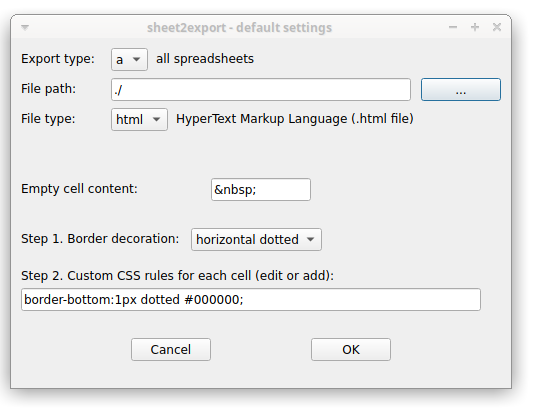
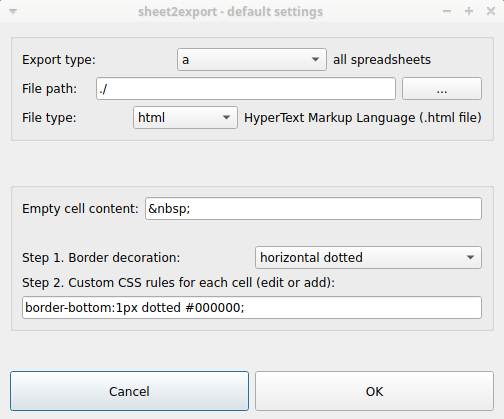
new layout for FreeCAD Dark & Light Theme

Changed region(s): [[0.0, 0.0, 0.9821, 0.9927], [0.2679, 0.0, 0.6548, 0.0876], [0.506, 0.8759, 0.5357, 0.9051]]

diff --git a/sheet2export.py b/sheet2export.py
@@ -144,122 +144,84 @@ def showQtMain():
 			# ############################################################################
 			
 			# tool screen size
-			toolSW = 500
-			toolSH = 350
+			toolSW = 400
+			toolSH = 400
 			
-			# active screen size - FreeCAD main window
-			gSW = FreeCADGui.getMainWindow().width()
-			gSH = FreeCADGui.getMainWindow().height()
-
-			# tool screen position
-			gPW = int( ( gSW - toolSW ) / 2 )
-			gPH = int( ( gSH - toolSH ) / 2 )
-
 			# ############################################################################
 			# main window
 			# ############################################################################
 			
 			self.result = userCancelled
-			self.setGeometry(gPW, gPH, toolSW, toolSH)
 			self.setWindowTitle(translate('sheet2export', 'sheet2export - default settings'))
 			self.setWindowFlags(QtCore.Qt.WindowStaysOnTopHint)
+			self.setMinimumWidth(toolSW)
+			self.setMinimumHeight(toolSH)
 
 			# ############################################################################
 			# export type
 			# ############################################################################
 
-			# label
 			self.eTypeL = QtGui.QLabel(translate('sheet2export', 'Export type:'), self)
-			self.eTypeL.move(10, 13)
 			
-			# options
 			self.eTypeList = ("a", "s")
 			self.eTypeO = QtGui.QComboBox(self)
 			self.eTypeO.addItems(self.eTypeList)
 			self.eTypeO.setCurrentIndex(self.eTypeList.index("a"))
 			self.eTypeO.textActivated[str].connect(self.setEType)
-			self.eTypeO.move(100, 10)
 			
-			# info screen
-			self.eTypeIS = QtGui.QLabel(translate('sheet2export', 'all spreadsheets')+'                  ', self)
-			self.eTypeIS.move(145, 13)
-
+			self.eTypeIS = QtGui.QLabel(translate('sheet2export', 'all spreadsheets'), self)
+			
 			# ############################################################################
 			# file path
 			# ############################################################################
 
-			# label
 			self.fPathL = QtGui.QLabel(translate('sheet2export', 'File path:'), self)
-			self.fPathL.move(10, 43)
-
-			# text input
+			
 			self.fPathTi = QtGui.QLineEdit(self)
 			self.fPathTi.setText(str(sFilePath))
 			self.fPathTi.setFixedWidth(300)
-			self.fPathTi.move(100, 40)
-
-			# button
+			
 			self.fPathB = QtGui.QPushButton("...", self)
 			self.fPathB.clicked.connect(self.loadCustomDir)
-			self.fPathB.move(410, 40)
-
+			
 			# ############################################################################
 			# file type
 			# ############################################################################
 			
-			# label
 			self.fileTypeL = QtGui.QLabel(translate('sheet2export', 'File type:'), self)
-			self.fileTypeL.move(10, 73)
 			
-			# options
 			self.fileTypeOlist = ("csv","html","json","md")
 			self.fileTypeO = QtGui.QComboBox(self)
 			self.fileTypeO.addItems(self.fileTypeOlist)
 			self.fileTypeO.setCurrentIndex(self.fileTypeOlist.index("html"))
 			self.fileTypeO.textActivated[str].connect(self.setFileType)
-			self.fileTypeO.move(100, 70)
-
-			# info screen
-			self.fileTypeOIS = QtGui.QLabel(translate('sheet2export', 'HyperText Markup Language (.html file)')+'          ', self)
-			self.fileTypeOIS.move(165, 73)
-
+			
+			self.fileTypeOIS = QtGui.QLabel(translate('sheet2export', 'HyperText Markup Language (.html file)'), self)
+			
 			# ############################################################################
 			# empty cell
 			# ############################################################################
 
-			# label
 			self.emptyCellL = QtGui.QLabel(translate('sheet2export', 'Empty cell content:'), self)
-			self.emptyCellL.move(10, 143)
-
-			# text input
+			
 			self.emptyCellTi = QtGui.QLineEdit(self)
 			self.emptyCellTi.setText(str(sEmptyCell))
-			self.emptyCellTi.setFixedWidth(100)
-			self.emptyCellTi.move(200, 140)
-
+			
 			# ############################################################################
 			# CSV separator
 			# ############################################################################
 			
-			# label
 			self.csvSL = QtGui.QLabel(translate('sheet2export', 'Set CSV separator:'), self)
-			self.csvSL.move(10, 183)
-			self.csvSL.hide()
-
-			# text input
+			
 			self.csvSTi = QtGui.QLineEdit(self)
 			self.csvSTi.setText(str(sSepCSV))
-			self.csvSTi.setFixedWidth(100)
-			self.csvSTi.move(140, 180)
-			self.csvSTi.hide()
-
+			
 			# ############################################################################
 			# custom CSS rules
 			# ############################################################################
 
 			# border label
 			self.customCSSbl = QtGui.QLabel(translate('sheet2export', 'Step 1. Border decoration:'), self)
-			self.customCSSbl.move(10, 193)
 
 			# border options
 			self.customCSSbol = ("no border","horizontal dotted","vertical solid",
@@ -268,32 +230,91 @@ def showQtMain():
 			self.customCSSbo.addItems(self.customCSSbol)
 			self.customCSSbo.setCurrentIndex(self.customCSSbol.index("horizontal dotted"))
 			self.customCSSbo.textActivated[str].connect(self.setCustomCSSbo)
-			self.customCSSbo.move(180, 190)
 
 			# text input label
 			self.customCSStil = QtGui.QLabel(translate('sheet2export', 'Step 2. Custom CSS rules for each cell (edit or add):'), self)
-			self.customCSStil.move(10, 230)
 
 			# text input
 			self.customCSSti = QtGui.QLineEdit(self)
 			self.customCSSti.setText(str(sCustomCSS))
 			self.customCSSti.setFixedWidth(460)
-			self.customCSSti.move(10, 250)
 
 			# ############################################################################
 			# buttons
 			# ############################################################################
 
 			# button - cancel
-			cancelButton = QtGui.QPushButton(translate('sheet2export', 'Cancel'), self)
-			cancelButton.clicked.connect(self.onCancel)
-			cancelButton.setAutoDefault(True)
-			cancelButton.move(120, 300)
+			self.cancelButton = QtGui.QPushButton(translate('sheet2export', 'Cancel'), self)
+			self.cancelButton.clicked.connect(self.onCancel)
+			self.cancelButton.setAutoDefault(True)
+			self.cancelButton.setFixedHeight(40)
 			
 			# button - ok
-			okButton = QtGui.QPushButton(translate('sheet2export', 'OK'), self)
-			okButton.clicked.connect(self.onOk)
-			okButton.move(300, 300)
+			self.okButton = QtGui.QPushButton(translate('sheet2export', 'OK'), self)
+			self.okButton.clicked.connect(self.onOk)
+			self.okButton.setFixedHeight(40)
+
+			# ############################################################################
+			# build GUI layout
+			# ############################################################################
+			
+			# create structure
+			self.body1 = QtGui.QHBoxLayout()
+			self.body1.addWidget(self.eTypeL)
+			self.body1.addWidget(self.eTypeO)
+			self.body1.addWidget(self.eTypeIS)
+			self.body2 = QtGui.QHBoxLayout()
+			self.body2.addWidget(self.fPathL)
+			self.body2.addWidget(self.fPathTi)
+			self.body2.addWidget(self.fPathB)
+			self.body3 = QtGui.QHBoxLayout()
+			self.body3.addWidget(self.fileTypeL)
+			self.body3.addWidget(self.fileTypeO)
+			self.body3.addWidget(self.fileTypeOIS)
+			self.lay1 = QtGui.QVBoxLayout()
+			self.lay1.addLayout(self.body1)
+			self.lay1.addLayout(self.body2)
+			self.lay1.addLayout(self.body3)
+			self.groupBody1 = QtGui.QGroupBox(None, self)
+			self.groupBody1.setLayout(self.lay1)
+			
+			self.body4 = QtGui.QHBoxLayout()
+			self.body4.addWidget(self.emptyCellL)
+			self.body4.addWidget(self.emptyCellTi)
+			self.body5 = QtGui.QHBoxLayout()
+			self.body5.addWidget(self.csvSL)
+			self.body5.addWidget(self.csvSTi)
+			self.body6 = QtGui.QHBoxLayout()
+			self.body6.addWidget(self.customCSSbl)
+			self.body6.addWidget(self.customCSSbo)
+			self.body7 = QtGui.QVBoxLayout()
+			self.body7.addWidget(self.customCSStil)
+			self.body7.addWidget(self.customCSSti)
+			self.lay2 = QtGui.QVBoxLayout()
+			self.lay2.addLayout(self.body4)
+			self.lay2.addLayout(self.body5)
+			self.lay2.addSpacing(20)
+			self.lay2.addLayout(self.body6)
+			self.lay2.addLayout(self.body7)
+			self.groupBody2 = QtGui.QGroupBox(None, self)
+			self.groupBody2.setLayout(self.lay2)
+			
+			self.body8 = QtGui.QHBoxLayout()
+			self.body8.addWidget(self.cancelButton)
+			self.body8.addWidget(self.okButton)
+			
+			# set layout to main window
+			self.layout = QtGui.QVBoxLayout()
+			self.layout.addWidget(self.groupBody1)
+			self.layout.addStretch()
+			self.layout.addWidget(self.groupBody2)
+			self.layout.addStretch()
+			self.layout.addLayout(self.body8)
+			self.setLayout(self.layout)
+
+			# hide
+			self.csvSL.hide()
+			self.csvSTi.hide()
 
 			# ############################################################################
 			# show
@@ -301,6 +322,12 @@ def showQtMain():
 
 			self.show()
 
+			# set window position
+			sw = self.width()
+			sh = self.height()
+			pw = int( (FreeCADGui.getMainWindow().width() / 2) - ( sw / 2 ) )
+			ph = int( (FreeCADGui.getMainWindow().height() / 2) - ( sh / 2 ) )
+			self.setGeometry(pw, ph, sw, sh)
 
 		# ############################################################################
 		# actions
